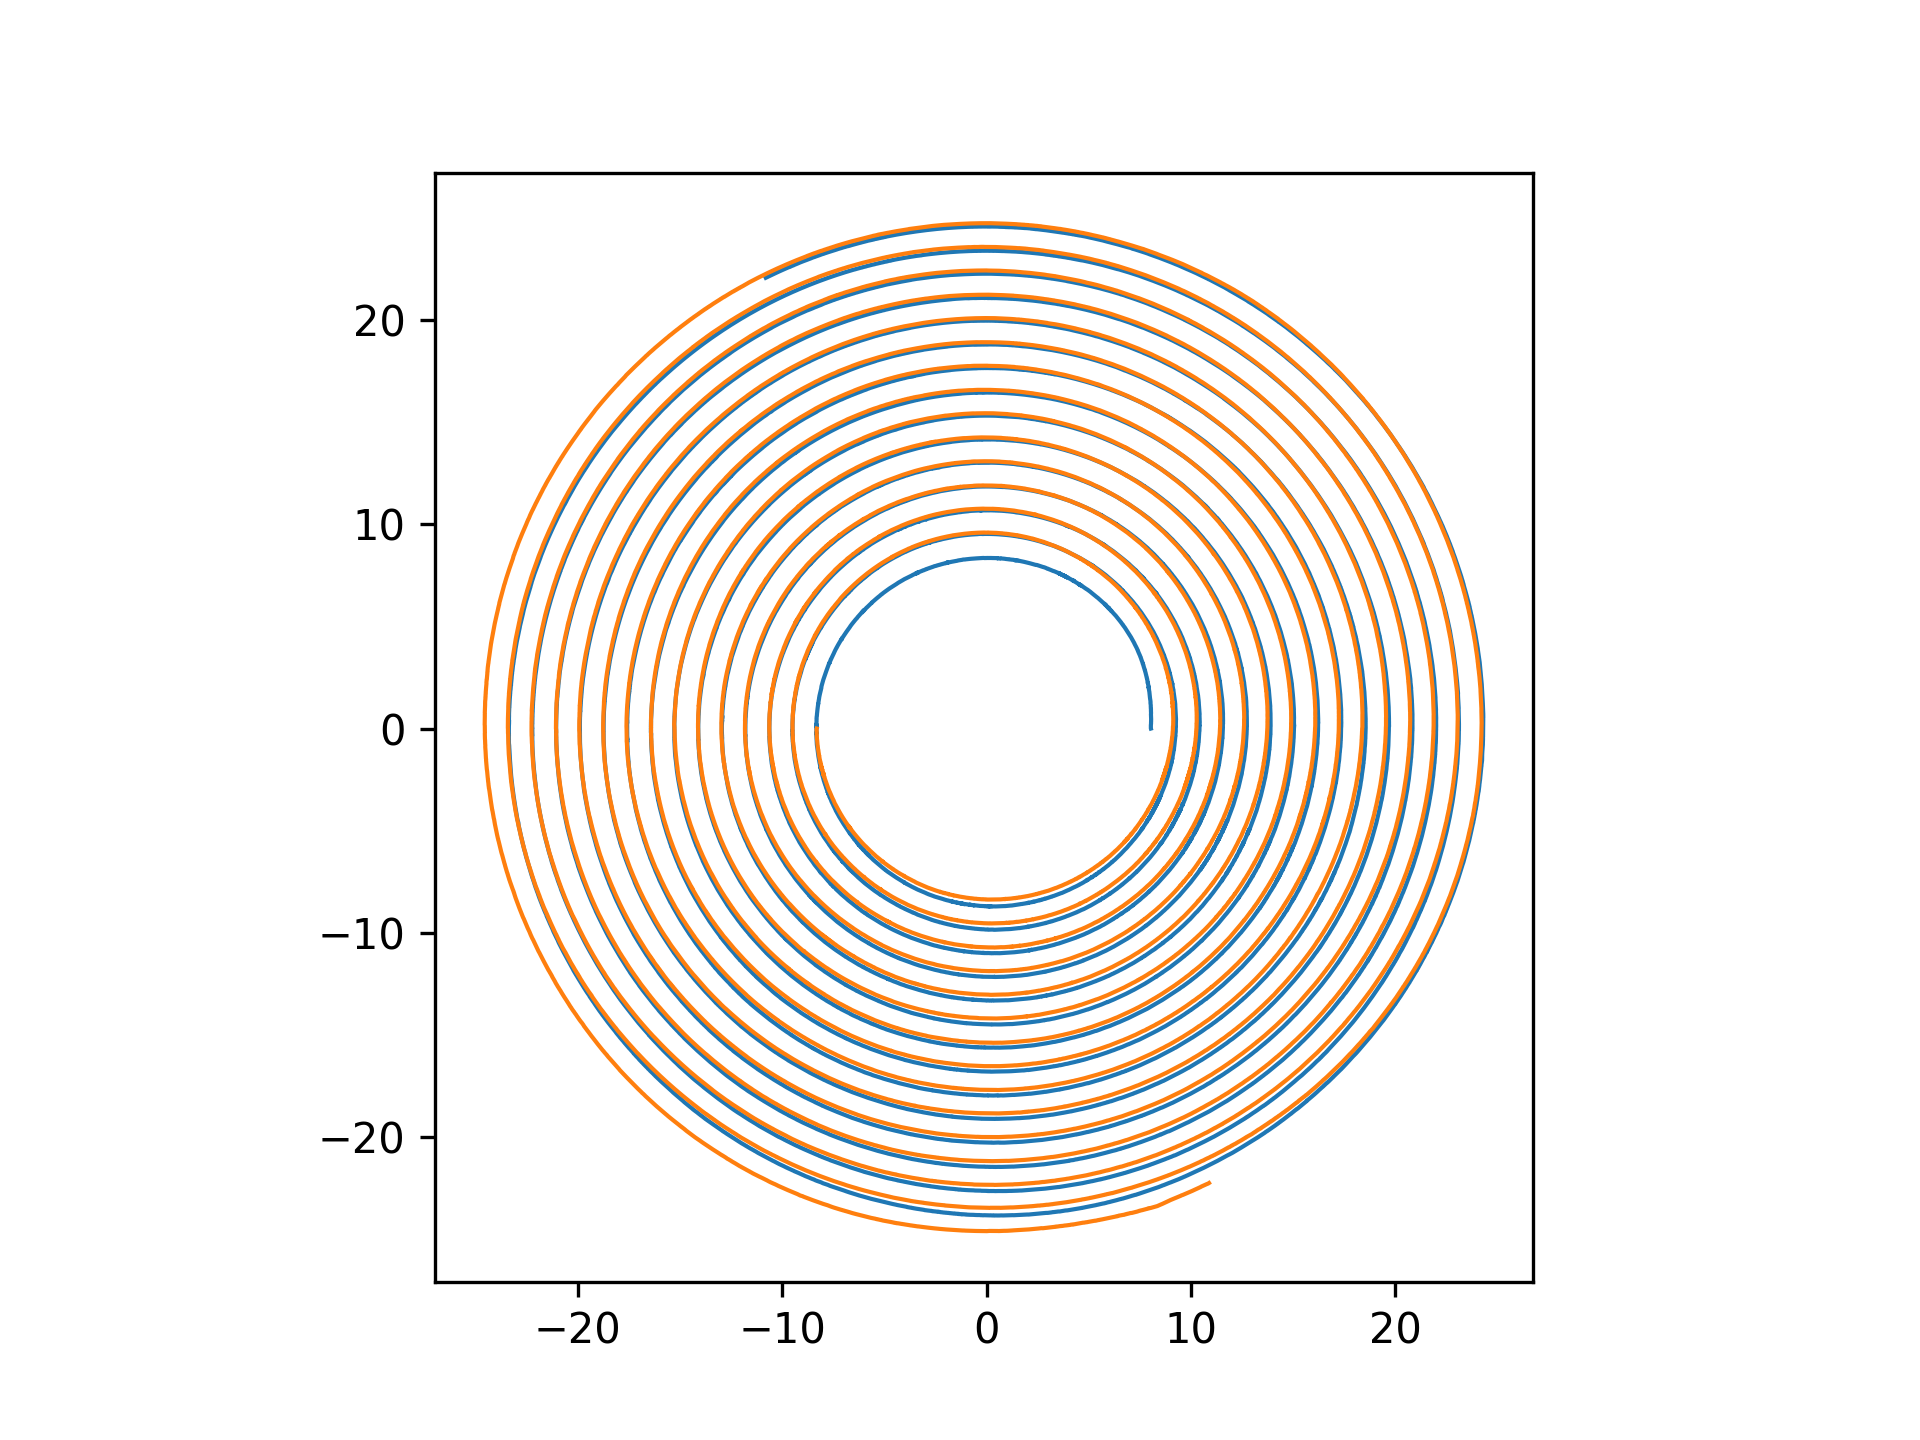
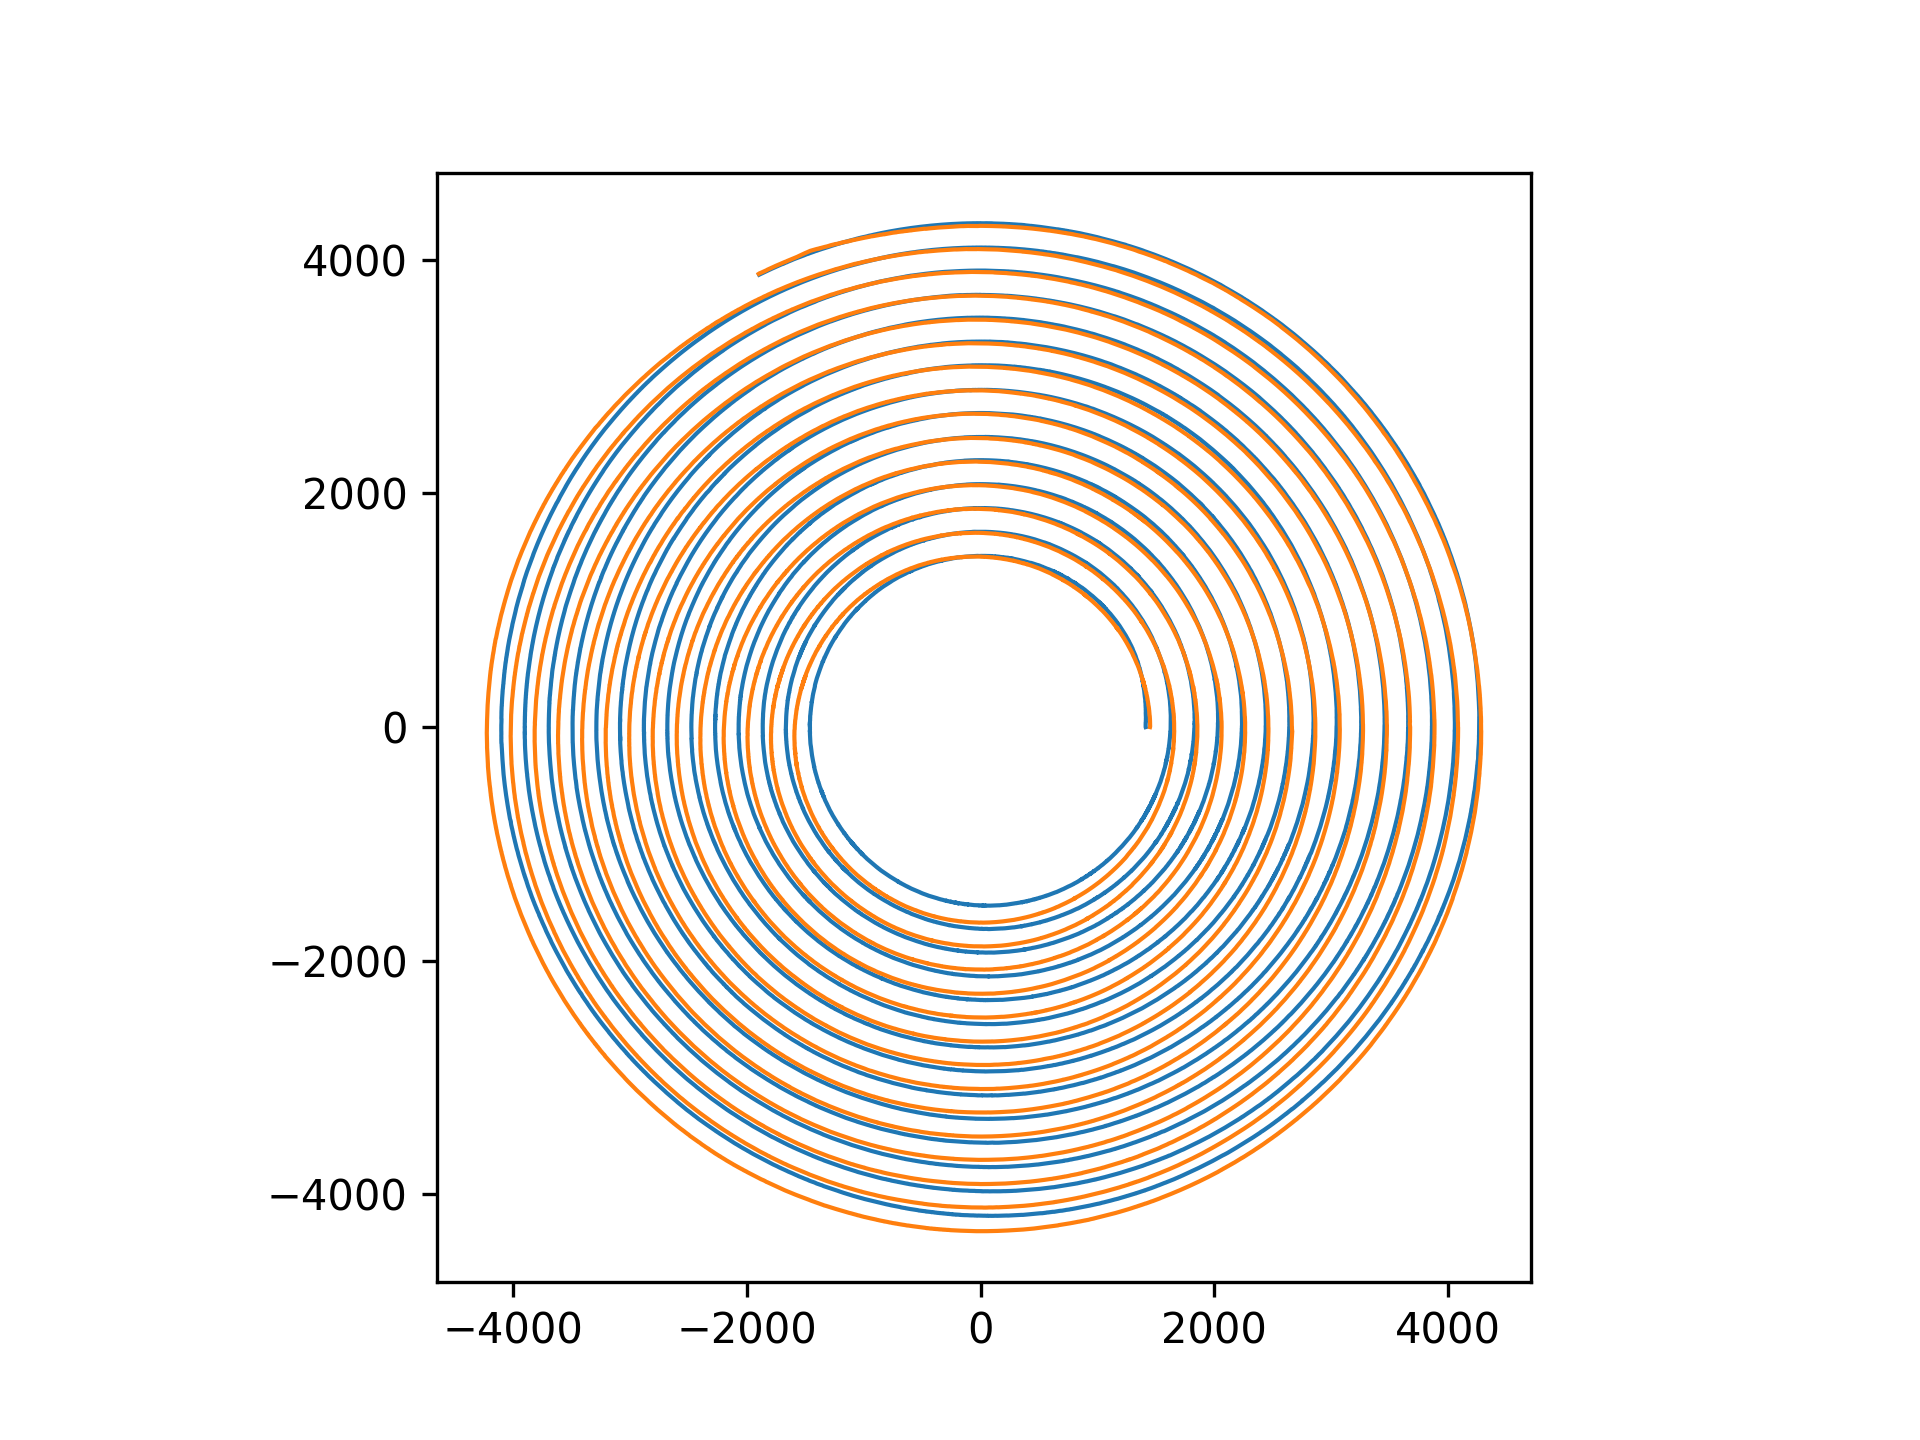
Bug hunting: combination of electrodes

diff --git a/sectorImage/core/stitcher.py b/sectorImage/core/stitcher.py
@@ -54,19 +54,11 @@ class Stitcher:
         """
 
         if self.mpflag:
-            # mp.set_start_method('spawn')
-            #ncpus = mp.cpu_count()
-            #pool = mp.Pool(ncpus)
             self.images = Parmap(self.singleRoutine, self.fns, self.calibration)
-            # pool.close()
-            # pool.join()
         else:
             for fn in self.fns:
-                # npzfn = 'data/' + (fn.split('/')[-1].split('.')[0]) + '.npz'
                 im = singleImage.SingleImage(fn, self.calibration)
-                # im.getFeatures(npz=npzfn)
                 im.getFeatures()
-                # im.setFeatures(npz=npzfn)
                 im.getLines()
                 self.images.append(im)
 
@@ -256,8 +248,6 @@ class Stitcher:
 
         compP = np.empty(0)
         compR = np.empty(0)
-        compX = np.empty(0)
-        compY = np.empty(0)
         for i, b in enumerate(bands):
             compR = np.append(compR, b[1])
             phi = b[0] + i * chirality * 2 * np.pi

diff --git a/applied/pair.py b/applied/pair.py
@@ -74,7 +74,6 @@ class Pair:
         lengths = []
         max_phis = []
         for e in self.electrodes:
-            print(e.chirality)
             phiAbs = np.abs(e.phis)[::e.chirality]
             npts = len(phiAbs)
             lengths.append(npts)
@@ -88,9 +87,11 @@ class Pair:
         ax = fig.add_subplot(111)
         for i, e in enumerate(self.electrodes):
             r_interp = np.interp(global_phis, np.abs(e.phis)[::e.chirality], e.rs[::e.chirality])
-            global_phis += i * np.pi
-            x = r_interp * np.cos(global_phis)
-            y = r_interp * np.sin(global_phis)
+            # global_phis += i * np.pi
+            shiftx = 0
+            shifty = 0
+            x = r_interp / e.scale * np.cos(global_phis) + i * shiftx
+            y = r_interp / e.scale * np.sin(global_phis) + i * shifty
             ax.plot(x, y, lw=1)
         ax.set_aspect('equal')
         fig.savefig(__location__ + '/data/plots/' + str(self.serial) + '_interpolated.png', dpi=300)

diff --git a/applied/main.py b/applied/main.py
@@ -9,12 +9,12 @@ from pair import Pair
 
 
 def main():
-    s = Sequence(offsite=False)
+    s = Sequence(offsite=True)
     s.prime()
-    pair = s.measure(n=16)
+    # pair = s.measure(n=16)
     # pair.store()
     # pair.load()
-    #pair = Pair('CSAT_LabTest.h5', fromFile=True)
+    pair = Pair('CSAT_LabTest.h5', fromFile=True)
     pair.computeGap()
     pair.plot()
     # s.storeSpiral(spiral)
